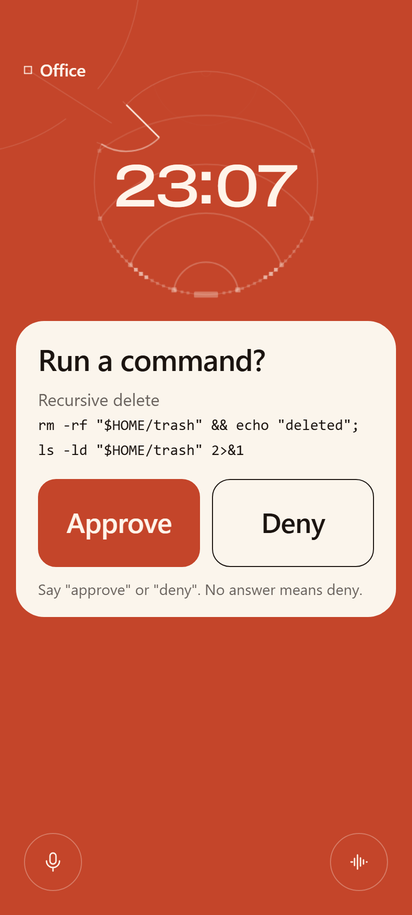
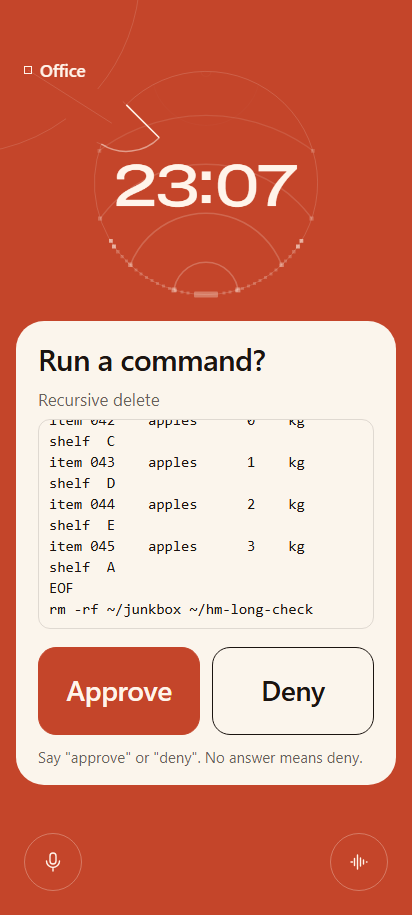
docs: whole-command approval cards and actor-checked answers

diff --git a/CLAIMS.md b/CLAIMS.md
@@ -18,7 +18,7 @@ Test machine for every VERIFIED-LIVE line: Windows 11, Ryzen 5 5600X, RTX 4060 8
 | The answer starts <!-- num:latency_p50 -->2.6 s<!-- /num --> (median) and <!-- num:latency_p95 -->3.2 s<!-- /num --> (p95) after the end of speech, over <!-- num:latency_runs -->20<!-- /num --> warm runs. | REPRODUCIBLE | `hermes housemate bench latency` → [results/latency.json](results/latency.json) (raw runs, per-stage times, setup). One machine, one-word answers, satellite on the same PC as the hub. |
 | Wake word recall <!-- num:wake_recall -->100 %<!-- /num --> on <!-- num:wake_recall_n -->58<!-- /num --> clean clips, <!-- num:wake_recall_noisy -->95 %<!-- /num --> with speech 10 dB lower in the background. | REPRODUCIBLE | `hermes housemate bench wake` → [results/wake.json](results/wake.json); corpus in [bench/corpus.md](bench/corpus.md), [bench/corpus.py](bench/corpus.py). Synthetic voices, not recordings of people. |
 | <!-- num:wake_fa_per_hour -->0.11<!-- /num --> false wakes per hour (<!-- num:wake_false_accepts -->1<!-- /num --> in <!-- num:wake_negative_hours -->9.2<!-- /num --> h of LibriVox speech). | REPRODUCIBLE | Same run; the one event is listed with its file and second in `results/wake.json`. |
-| <!-- num:tests_passed -->547<!-- /num --> tests pass against Hermes <!-- num:hermes_version -->0.23.0<!-- /num -->. | REPRODUCIBLE | `python -m pytest -m "not slow"` or `hermes housemate bench tests` → [results/tests.json](results/tests.json); CI in [.github/workflows/ci.yml](.github/workflows/ci.yml). |
+| <!-- num:tests_passed -->566<!-- /num --> tests pass against Hermes <!-- num:hermes_version -->0.23.0<!-- /num -->. | REPRODUCIBLE | `python -m pytest -m "not slow"` or `hermes housemate bench tests` → [results/tests.json](results/tests.json); CI in [.github/workflows/ci.yml](.github/workflows/ci.yml). |
 | `hermes plugins validate --install-deps` passes: declared tools and hooks match, security scan safe, no core override. | REPRODUCIBLE | The "Catalog validation" step in CI; locally `hermes plugins validate <checkout> --install-deps`. |
 | The first answer after a gateway restart takes about 7 s. | REPRODUCIBLE | `warm_up_s` in `results/latency.json` (6.4 s in the committed run; 6.5 to 7.5 s in earlier runs). |
 | Whole-file voices start about 2.7 s later than `housemate-piper`; a streaming cloud voice about 1.4 s later. | VERIFIED-LIVE | Measured on the test machine with an earlier model. Repeat: change `tts.provider`, restart the gateway, run `hermes housemate bench latency`. Not in `results/`. |
@@ -42,6 +42,9 @@ Test machine for every VERIFIED-LIVE line: Windows 11, Ryzen 5 5600X, RTX 4060 8
 | Hedged or longer answers ("yes, but what does it delete?") never approve. | REPRODUCIBLE | `tests/test_intents.py`, `tests/test_approvals.py::test_hedged_spoken_answers_never_approve`. |
 | Audio that overlaps the hub's own playback, a timer labelled "approve", and text the hub announced never count as an answer. | REPRODUCIBLE | `tests/test_approvals.py` (`test_answer_heard_while_another_room_plays_is_not_an_answer`, `test_timer_labelled_approve_cannot_approve`, `test_words_we_announced_are_not_an_answer`). |
 | A command flagged by Hermes's smart approval can only be approved by a tap; taps count only from allowed devices in that room that were shown the card. | REPRODUCIBLE | `tests/test_approvals.py` (`test_smart_denied_approval_is_tap_only`, `test_tap_from_another_room_is_ignored`, `test_tap_from_a_device_outside_the_allowlist_is_ignored`). |
+| The approval card shows Hermes's command exactly as it will run: never cut, never re-spaced; long lines wrap and the block scrolls inside the card. The spoken question reads Hermes's description only, never the command. The adapter keeps Hermes's default card budget (3000 characters), so Hermes itself handles longer commands. | REPRODUCIBLE, VERIFIED-LIVE | `tests/test_approvals.py` (`test_long_command_reaches_the_card_byte_for_byte`, `test_the_adapter_claims_no_card_budget_of_its_own`), `tests/test_web_assets.py` (`test_approval_card_shows_the_command_verbatim`, `test_card_code_never_cuts_or_respaces_the_command`); [`adapter.py:1688`](adapter.py#L1688), [web/prompt.js](web/prompt.js). Live: the model ran a 2,129-character command with tabs, runs of spaces and an `rm -rf` tail; the card on a scripted satellite and on the satellite page in Chromium matched the command Hermes stored byte for byte ([screenshot](docs/screens/satellite-approval.png), scrolled to the tail), and a tap on Deny kept the folder. |
+| Approve is offered, on the card and by voice, only when Hermes offers a non-deny choice, and it resolves the narrowest one offered. A Deny-only card has no Approve button; a spoken or forged "approve" is refused with a short note. | REPRODUCIBLE | `tests/test_approvals.py` (`test_deny_only_card_offers_no_approve`, `test_spoken_approve_is_refused_when_only_deny_is_offered`, `test_approve_resolves_with_the_narrowest_tier_offered`), `tests/test_web_assets.py::test_deny_only_card_has_no_approve_button`. Hermes 0.23.0 never sends a Deny-only card; on the test machine the satellite page in Chromium showed the adapter's Deny-only message without Approve, and its Deny tap reached the live hub. |
+| Taps and spoken answers tell Hermes which device answered: `actor_id` is that device's id (the `user_id` of its messages) and `extra` is the platform's settings, so a narrowed `approvals.approvers` list holds on speakers too. Where Hermes has `approval_refusal` and `clarify_refusal`, they are asked first: a refused device is told "Only … can answer this" and the card stays open. Hermes 0.23.0 has neither (and no approvers list); its resolver is called without them. | REPRODUCIBLE | `tests/test_approvals.py` (`test_taps_and_spoken_answers_name_the_answering_device`, `test_hermes_023_resolver_without_actor_keywords_still_resolves`, `test_a_type_error_inside_the_resolver_is_not_retried_without_the_actor`, `test_a_device_hermes_refuses_cannot_approve_and_the_card_stays`, `test_spoken_approval_from_a_refused_device_is_not_taken`, `test_clarify_tap_from_a_refused_device_is_not_taken`, `test_spoken_clarify_answer_from_a_refused_device_is_not_taken`, `test_without_hermes_approval_actor_answers_still_resolve`); [`adapter.py:2313`](adapter.py#L2313). Live on 0.23.0: a spoken "Approve." and a tap still resolve. Also run once on the test machine against the current Hermes main code (its own `send_exec_approval`, `resolve_gateway_approval_card`, `gateway.approval_actor` and clarify gateway, with `approvals.approvers: []`): another device's tap was refused with the card left open, the requester's tap resolved, a 4,000-character command containing a fence became Deny-only. That script is not in the repository. |
 | Several approvals are asked and answered one at a time, in order. | REPRODUCIBLE | `tests/test_approvals.py::test_three_pending_approvals_are_answered_in_order`. |
 | Clarify questions are read out and answered by voice, by tap or with "skip". | REPRODUCIBLE, VERIFIED-LIVE | `tests/test_approvals.py` (clarify tests). Live: voice, tap and skip on a real gateway. |
 | "Tell the kitchen dinner's ready" is spoken in the kitchen with a chime and a caption. | REPRODUCIBLE, VERIFIED-LIVE | `tests/test_announce.py`, `tests/test_tools.py`. Live with scripted satellites. |
@@ -76,7 +79,7 @@ Test machine for every VERIFIED-LIVE line: Windows 11, Ryzen 5 5600X, RTX 4060 8
 
 ## Public surfaces used
 
-Housemate extends Hermes only through documented surfaces. `hermes plugins validate` reports no private imports, no private attribute access and no core override, and `tests/test_hermes_contract.py` runs the same lints on every test run.
+Housemate extends Hermes only through documented surfaces. `hermes plugins validate` reports no private attribute access and no core override, and `tests/test_hermes_contract.py` runs the same lints on every test run. It reports no private imports on Hermes main; 0.23.0's validator, whose list predates `gateway.approval_actor`, names the three names imported from it (below) as a warning.
 
 ### Registrations (PluginContext)
 
@@ -99,17 +102,18 @@ Housemate extends Hermes only through documented surfaces. `hermes plugins valid
 
 | Import | Where | Why it is public |
 |---|---|---|
-| `gateway.config` (`Platform`, `PlatformConfig`) | [`adapter.py:38`](adapter.py#L38) | Public module on the validator's list (adapter guide). |
-| `gateway.platforms.base` (`BasePlatformAdapter`, `AudioFormat`, `ExecApprovalPrompt`, `SendResult`, `StreamingTTSHandle`, `cache_audio_from_bytes_async`) | [`adapter.py:39`](adapter.py#L39) | "Adapter base class, send results, media cache helpers" in the adapter guide. |
-| `gateway.platforms.event` (`MessageEvent`, `MessageType`) | [`adapter.py:47`](adapter.py#L47) | Public module. |
-| `gateway.platforms._shared:get_scoped_secret` | [`adapter.py:2206`](adapter.py#L2206) | Public module; the adapter guide names it for profile-scoped settings. |
+| `gateway.config` (`Platform`, `PlatformConfig`) | [`adapter.py:40`](adapter.py#L40) | Public module on the validator's list (adapter guide). |
+| `gateway.platforms.base` (`BasePlatformAdapter`, `AudioFormat`, `ExecApprovalPrompt`, `SendResult`, `StreamingTTSHandle`, `cache_audio_from_bytes_async`) | [`adapter.py:41`](adapter.py#L41) | "Adapter base class, send results, media cache helpers" in the adapter guide. |
+| `gateway.platforms.event` (`MessageEvent`, `MessageType`) | [`adapter.py:49`](adapter.py#L49) | Public module. |
+| `gateway.platforms._shared:get_scoped_secret` | [`adapter.py:2291`](adapter.py#L2291) | Public module; the adapter guide names it for profile-scoped settings. |
 | `gateway.platform_registry:PlatformEntry` | [`__init__.py:71`](__init__.py#L71) | Public module; read only to feature-test optional fields. |
 | `gateway.session_context:get_session_env` | [`tools.py:48`](tools.py#L48) | Named in the plugin guide for reading session identity from the task-local context; the tools use it to find the speaking room. |
-| `tools.approval:resolve_gateway_approval_card` | [`adapter.py:1858`](adapter.py#L1858) | Adapter guide, "Resolve an approval from a native button". |
-| `tools.clarify_gateway:resolve_gateway_clarify`, `SKIPPED` | [`adapter.py:1864`](adapter.py#L1864), [`adapter.py:2224`](adapter.py#L2224) | Adapter guide, "Native clarify buttons". |
+| `tools.approval:resolve_gateway_approval_card` | [`adapter.py:1894`](adapter.py#L1894) | Adapter guide, "Resolve an approval from a native button". Called with `actor_id` and `extra` when its signature takes them. |
+| `gateway.approval_actor` (`approval_refusal`, `clarify_refusal`, `refusal_text`) | [`adapter.py:1909`](adapter.py#L1909) | On Hermes's published plugin API (`hermes_cli/data/plugin_api.json`) after 0.23.0. Imported only when an answer arrives; absent on 0.23.0, where the check is skipped. |
+| `tools.clarify_gateway:resolve_gateway_clarify`, `SKIPPED` | [`adapter.py:1901`](adapter.py#L1901), [`adapter.py:2330`](adapter.py#L2330) | Adapter guide, "Native clarify buttons". |
 | `tools.registry:registry` | [`tools.py:87`](tools.py#L87) | Public module; fallback for `dispatch_tool`. |
-| `plugins.plugin_storage` (`plugin_data_dir`, `plugin_db`) | [`adapter.py:303`](adapter.py#L303), [`tools.py:34`](tools.py#L34), [`cli.py:137`](cli.py#L137), [`dashboard/plugin_api.py:41`](dashboard/plugin_api.py#L41) | The plugin's own data folder and SQLite database. |
-| `hermes_cli.config` (`load_config`, `write_platform_config_field`) | [`adapter.py:2194`](adapter.py#L2194), [`core/tts_piper.py:43`](core/tts_piper.py#L43), [`core/desk.py:223`](core/desk.py#L223) | Public module. Reads the approval timeout and TTS voice; writes only `platforms.housemate.conversation`. |
+| `plugins.plugin_storage` (`plugin_data_dir`, `plugin_db`) | [`adapter.py:311`](adapter.py#L311), [`tools.py:34`](tools.py#L34), [`cli.py:137`](cli.py#L137), [`dashboard/plugin_api.py:41`](dashboard/plugin_api.py#L41) | The plugin's own data folder and SQLite database. |
+| `hermes_cli.config` (`load_config`, `write_platform_config_field`) | [`adapter.py:2279`](adapter.py#L2279), [`core/tts_piper.py:43`](core/tts_piper.py#L43), [`core/desk.py:223`](core/desk.py#L223) | Public module. Reads the approval timeout and TTS voice; writes only `platforms.housemate.conversation`. |
 | `hermes_cli.plugin_events:broadcast_plugin_event` | [`core/desk.py:242`](core/desk.py#L242) | Public module; pushes `plugin.housemate.rooms.changed` to the Rooms page. |
 | `hermes_constants:get_hermes_home` | [`core/tts_piper.py:37`](core/tts_piper.py#L37) | Public module; locates Hermes's shared Piper voice cache. |
 | Bench only, not loaded at runtime: `hermes_cli.config`, `plugins.plugin_storage` | [`bench/run.py:216`](bench/run.py#L216), [`bench/run.py:603`](bench/run.py#L603) | Public modules. |
@@ -120,21 +124,21 @@ Housemate's adapter is a subclass of `BasePlatformAdapter`. It overrides methods
 
 | Method | Where | Why |
 |---|---|---|
-| `connect`, `disconnect`, `send`, `edit_message`, `send_typing`, `stop_typing`, `get_chat_info`, `send_voice`, `on_processing_complete` | [`adapter.py:300`](adapter.py#L300), [`adapter.py:1199`](adapter.py#L1199), [`adapter.py:803`](adapter.py#L803) | The adapter contract. |
-| `supports_streaming_tts`, `begin_streaming_tts`, `write_streaming_tts`, `finish_streaming_tts`, `abort_streaming_tts` | [`adapter.py:1297`](adapter.py#L1297) | Hermes's streaming TTS contract for adapters. |
-| `_send_exec_approval_prompt` (override) | [`adapter.py:1649`](adapter.py#L1649) | The base class's seam for native approval buttons ("Render prompt with the platform's native buttons; the default has none"). |
-| `send_clarify`, `retire_clarify_card` (override) | [`adapter.py:1672`](adapter.py#L1672), [`adapter.py:1738`](adapter.py#L1738) | Clarify contract for adapters with native choices. |
-| `_should_auto_tts_for_chat` (override) | [`adapter.py:607`](adapter.py#L607) | Makes replies on this platform spoken by default (`speak_replies`, default on); a speaker has no other way to deliver an answer. Hermes resets the base class's auto-TTS default at start-up, so an override in our own subclass is the per-platform way to set it. Other platforms are untouched. |
-| `prepare_tts_text` (override) | [`adapter.py:610`](adapter.py#L610) | Public base-class method that turns a reply into the script Hermes's voice reads. Ours says Hermes's "conversation is paused" notices in plain words instead of "send /discard"; every other reply goes to the base class unchanged. |
-| `_mark_connected`, `_mark_disconnected` (called) | [`adapter.py:342`](adapter.py#L342), [`adapter.py:539`](adapter.py#L539) | Shown in the adapter guide's examples. |
-| `_set_fatal_error` (called) | [`adapter.py:327`](adapter.py#L327) | Base-class helper that reports a port clash to the gateway as non-retryable. |
-| `_event_session_key`, `_active_sessions` (read only) | [`adapter.py:765`](adapter.py#L765), [`adapter.py:768`](adapter.py#L768) | Base-class state read in our own subclass to wait until a household session is idle before handing over a queued question, so it never interrupts a running turn. Never written. A public "is this session busy" helper would replace it. |
-| `build_source`, `handle_message` (called) | [`adapter.py:495`](adapter.py#L495) | The documented way to turn an inbound message into a Hermes turn. |
-| `self.config.extra["allow_from"]` (set on our own config) | [`adapter.py:561`](adapter.py#L561) | The platform's own settings dict. Paired devices become the allowlist that Hermes's access check reads, so pairing grants access and revoking takes it away at once. In memory only. |
+| `connect`, `disconnect`, `send`, `edit_message`, `send_typing`, `stop_typing`, `get_chat_info`, `send_voice`, `on_processing_complete` | [`adapter.py:308`](adapter.py#L308), [`adapter.py:1214`](adapter.py#L1214), [`adapter.py:811`](adapter.py#L811) | The adapter contract. |
+| `supports_streaming_tts`, `begin_streaming_tts`, `write_streaming_tts`, `finish_streaming_tts`, `abort_streaming_tts` | [`adapter.py:1312`](adapter.py#L1312) | Hermes's streaming TTS contract for adapters. |
+| `_send_exec_approval_prompt` (override) | [`adapter.py:1664`](adapter.py#L1664) | The base class's seam for native approval buttons ("Render prompt with the platform's native buttons; the default has none"). |
+| `send_clarify`, `retire_clarify_card` (override) | [`adapter.py:1695`](adapter.py#L1695), [`adapter.py:1761`](adapter.py#L1761) | Clarify contract for adapters with native choices. |
+| `_should_auto_tts_for_chat` (override) | [`adapter.py:615`](adapter.py#L615) | Makes replies on this platform spoken by default (`speak_replies`, default on); a speaker has no other way to deliver an answer. Hermes resets the base class's auto-TTS default at start-up, so an override in our own subclass is the per-platform way to set it. Other platforms are untouched. |
+| `prepare_tts_text` (override) | [`adapter.py:618`](adapter.py#L618) | Public base-class method that turns a reply into the script Hermes's voice reads. Ours says Hermes's "conversation is paused" notices in plain words instead of "send /discard"; every other reply goes to the base class unchanged. |
+| `_mark_connected`, `_mark_disconnected` (called) | [`adapter.py:350`](adapter.py#L350), [`adapter.py:547`](adapter.py#L547) | Shown in the adapter guide's examples. |
+| `_set_fatal_error` (called) | [`adapter.py:335`](adapter.py#L335) | Base-class helper that reports a port clash to the gateway as non-retryable. |
+| `_event_session_key`, `_active_sessions` (read only) | [`adapter.py:773`](adapter.py#L773), [`adapter.py:776`](adapter.py#L776) | Base-class state read in our own subclass to wait until a household session is idle before handing over a queued question, so it never interrupts a running turn. Never written. A public "is this session busy" helper would replace it. |
+| `build_source`, `handle_message` (called) | [`adapter.py:503`](adapter.py#L503) | The documented way to turn an inbound message into a Hermes turn. |
+| `self.config.extra["allow_from"]` (set on our own config) | [`adapter.py:569`](adapter.py#L569) | The platform's own settings dict. Paired devices become the allowlist that Hermes's access check reads, so pairing grants access and revoking takes it away at once. In memory only. |
 
 ### Other notes for reviewers
 
 - **TLS context.** Hermes swaps `ssl.SSLContext` for a client-only class at start-up. The hub builds its server context from the standard library's own class ([`core/hub.py:66`](core/hub.py#L66)) and does not modify Hermes's.
 - **Spoken answers.** Approval and clarify answers go through a side chat ("Housemate answers") as voice events with a one-time marker in `channel_context`. Hermes's STT transcribes them, and the `pre_llm_call` hook resolves the prompt through the public resolvers and vetoes the side turn ([core/answers.py](core/answers.py)). No private transcription API is imported.
-- **Paused conversations.** Hermes 0.23 pauses a conversation whose turn was lost in an unclean gateway exit and lifts it with the in-chat `/discard` command (GW-10). When the adapter receives that notice it asks for a spoken or tapped "continue", then sends `/discard` as an ordinary text message from the device that said it ([`adapter.py:982`](adapter.py#L982)), exactly as a person would type it in another chat. The only exception is the plugin's own answer side chat, which never holds a model turn and is unpaused at once. Hermes has no structured signal for the pause, so the adapter recognises it from the notice text ("⏸" and "/discard").
+- **Paused conversations.** Hermes 0.23 pauses a conversation whose turn was lost in an unclean gateway exit and lifts it with the in-chat `/discard` command (GW-10). When the adapter receives that notice it asks for a spoken or tapped "continue", then sends `/discard` as an ordinary text message from the device that said it ([`adapter.py:990`](adapter.py#L990)), exactly as a person would type it in another chat. The only exception is the plugin's own answer side chat, which never holds a model turn and is unpaused at once. Hermes has no structured signal for the pause, so the adapter recognises it from the notice text ("⏸" and "/discard").
 - **Model-initiated speech.** `housemate_announce` is speech on the user's own speakers inside the home, not an outbound message to a third party. Announced text is never accepted as an approval answer.

diff --git a/README.md b/README.md
@@ -9,7 +9,7 @@ Most homes have a drawer of old phones. Housemate turns them into room speakers 
 | | | |
 |---|---|---|
 | ![A kitchen phone speaking the answer](docs/screens/satellite-speaking.png) | ![A spoken approval card for an rm -rf command](docs/screens/satellite-approval.png) | ![The pairing screen with a six-digit code](docs/screens/satellite-pairing.png) |
-| The kitchen asked, so the kitchen answers. | Hermes asks before `rm -rf`. Say "approve" or "deny", or tap. | Pair a device once with a six-digit code. |
+| The kitchen asked, so the kitchen answers. | Hermes asks before `rm -rf`, and the card shows the whole command. Say "approve" or "deny", or tap. | Pair a device once with a six-digit code. |
 
 ## What it does
 
@@ -19,7 +19,7 @@ Most homes have a drawer of old phones. Housemate turns them into room speakers 
 - **Timers and alarms that ring where you set them.** They are kept in SQLite, ring with no model call, and survive a restart. Say "stop" (no wake word needed) or tap the screen.
 - **Intercom and announcements.** "Tell the kitchen dinner's ready" is spoken in the kitchen. On a speaker, tap the other room's name and talk to send a voice message.
 - **Room screens.** Recipes, lists and steps go on the screen as a card while Hermes says one sentence about them.
-- **Spoken approvals.** When Hermes needs your OK for a command, the speaker in that room reads it out and shows Approve and Deny. Answer out loud or tap. No answer means deny.
+- **Spoken approvals.** When Hermes needs your OK for a command, the speaker in that room says what it is and shows the whole command with Approve and Deny. Answer out loud or tap. No answer means deny.
 - **A Rooms page in Hermes Desktop.** A live plan of the home: every device and how far it hears, what each one is doing, which device won the last wake word, running timers, the last exchange per room, an announce box and pairing by QR code.
 - **Everything else Hermes does.** Email, files, the web, Home Assistant and your other plugins, by voice, through the same agent.
 
@@ -80,6 +80,8 @@ Headphones help too: they keep the reply out of the microphone.
   - The parser is strict. The whole answer must be a short approve or deny phrase ("approve", "yes", "go ahead"; "deny", "no", "cancel") with no question in it. Anything else is asked again and in the end times out as a deny.
   - Audio that overlaps the hub's own playback, and text the hub announced, never counts as an answer.
   - A command flagged by Hermes's smart approval can only be approved by a tap. Taps count only from allowed devices in that room that were shown the card.
+  - The card shows the command exactly as Hermes will run it, never cut or re-spaced; a long one scrolls inside the card. The voice reads only Hermes's short description of it. Approve appears only when Hermes offers it: when Hermes allows only Deny, a spoken "approve" is refused.
+  - Each answer tells Hermes which device gave it (its device id, the same `user_id` its questions carry), so a narrowed `approvals.approvers` list applies to speakers as well. A device Hermes refuses hears "Only … can answer this", and the card stays for the person who asked.
 - **Timers.** A scheduler inside the hub, stored in the plugin's SQLite database. A ring is a chime plus the spoken label in the timer's room, repeated every 20 s until stopped (for up to 3 minutes), with no model call. While a timer rings, "stop" works without the wake word.
 - **Rooms page.** `desktop/plugin.js` uses only the Desktop plugin SDK. On Hermes 0.23.0 it calls the plugin's REST routes (`/api/plugins/housemate/*`, behind the dashboard sign-in); on builds with plugin RPC it calls `plugin.housemate.rooms.*`. Live updates arrive as the `plugin.housemate.rooms.changed` event.
 
@@ -102,7 +104,7 @@ Every number here is copied from `results/*.json` by `scripts/render_numbers.py`
 | Wake word recall, clean | <!-- num:wake_recall -->100 %<!-- /num --> of <!-- num:wake_recall_n -->58<!-- /num --> clips |
 | Wake word recall with speech 10 dB lower in the background | <!-- num:wake_recall_noisy -->95 %<!-- /num --> |
 | False wakes | <!-- num:wake_fa_per_hour -->0.11<!-- /num --> per hour (<!-- num:wake_false_accepts -->1<!-- /num --> in <!-- num:wake_negative_hours -->9.2<!-- /num --> h of audiobook speech) |
-| Tests | <!-- num:tests_passed -->547<!-- /num --> passing on Hermes <!-- num:hermes_version -->0.23.0<!-- /num --> |
+| Tests | <!-- num:tests_passed -->566<!-- /num --> passing on Hermes <!-- num:hermes_version -->0.23.0<!-- /num --> |
 
 - **Latency** runs from the last frame of speech (found by Silero VAD in the clip, which is sent in real time like a satellite) to the first frame of reply audio arriving at the satellite, on the same PC as the hub, with one-word answers.
 - **Machine:** Ryzen 5 5600X, RTX 4060 8 GB, Windows 11.
@@ -234,7 +236,7 @@ hermes housemate bench [wake latency tests]  measure; writes results/*.json
 | Logs | The gateway log records timings and the first 80 characters of spoken answers to prompts ("approve", "stop"). |
 | Background work | Inside the gateway only: the hub, one listener per online device (wake word and VAD on a thread pool), the timer scheduler, a 5-second watchdog and the model load at start. The CLI and the tools only call the control API. |
 | Speaking in other rooms | `housemate_announce` lets the agent speak in other rooms, and `/announce` does the same from any chat. Announced text is never accepted as an approval answer. |
-| Approvals | Spoken and tapped answers resolve Hermes's own approval card by its request id. No answer is Hermes's timeout, which denies. Commands flagged by smart approval take a tap only. Nothing is auto-approved. |
+| Approvals | Spoken and tapped answers resolve Hermes's own approval card by its request id, as the device that answered. The card shows the whole command. No answer is Hermes's timeout, which denies. Commands flagged by smart approval take a tap only. Nothing is auto-approved. |
 | Bench (only when you run it) | `hermes housemate bench wake` downloads 20 LibriVox MP3s (about 266 MB, public domain, SHA-1 pinned) from archive.org into `plugin-data/housemate/bench/` and, if `edge-tts` is installed, generates test clips with Microsoft's Edge TTS service. `bench latency` pairs a device named "Bench satellite" (`hermes housemate revoke housemate-bench` removes it). |
 | Telemetry | None. No analytics, no update checks, nothing sent home. |
 

diff --git a/JUDGES.md b/JUDGES.md
@@ -52,14 +52,14 @@ Twenty seconds after step 3, the **Kitchen** window rings: a chime, "Your tea ti
 
 Run `mkdir ~/housemate-demo` (on Windows, `mkdir %USERPROFILE%\housemate-demo`), then in the Kitchen: "Delete the housemate-demo folder in my home directory."
 
-**Look for:** with Hermes's command approvals on, the Kitchen window shows a card with the exact command and Approve / Deny, and reads the question out loud. Answer after the question ends (no talk button needed for the answer):
+**Look for:** with Hermes's command approvals on, the Kitchen window shows a card with the whole command, exactly as Hermes will run it (a long one scrolls inside the card), and Approve / Deny, and reads the question out loud. Answer after the question ends (no talk button needed for the answer):
 
 - Say **"deny"**: Hermes reports it was denied and the folder is still there.
 - Ask again (hold to talk) and say **"yes, but what does it do?"**: that is not a clean answer, so you are asked again.
 - Say **"approve"**: the folder is gone.
 - Say nothing: Hermes's approval timeout denies it.
 
-The spoken answer goes through a side chat, Hermes's own STT and the plugin's `pre_llm_call` hook, which resolves that card by its request id with `resolve_gateway_approval_card` ([adapter.py](adapter.py), [core/answers.py](core/answers.py), [core/intents.py](core/intents.py); tests in [tests/test_approvals.py](tests/test_approvals.py), [tests/test_answers.py](tests/test_answers.py), [tests/test_intents.py](tests/test_intents.py)).
+The spoken answer goes through a side chat, Hermes's own STT and the plugin's `pre_llm_call` hook, which resolves that card by its request id with `resolve_gateway_approval_card`, naming the device that answered ([adapter.py](adapter.py), [core/answers.py](core/answers.py), [core/intents.py](core/intents.py); tests in [tests/test_approvals.py](tests/test_approvals.py), [tests/test_answers.py](tests/test_answers.py), [tests/test_intents.py](tests/test_intents.py)).
 
 ## 6. Intercom
 
@@ -82,7 +82,7 @@ hermes housemate bench wake --max-hours 0.5 --no-generate --out ./bench-out
 
 ## 8. Tests and validation
 
-The tests are in [tests/](tests/): <!-- num:tests_passed -->547<!-- /num --> pass against the real Hermes <!-- num:hermes_version -->0.23.0<!-- /num --> ([results/tests.json](results/tests.json)). From a checkout:
+The tests are in [tests/](tests/): <!-- num:tests_passed -->566<!-- /num --> pass against the real Hermes <!-- num:hermes_version -->0.23.0<!-- /num --> ([results/tests.json](results/tests.json)). From a checkout:
 
 ```bash
 python -m pytest -m "not slow"
